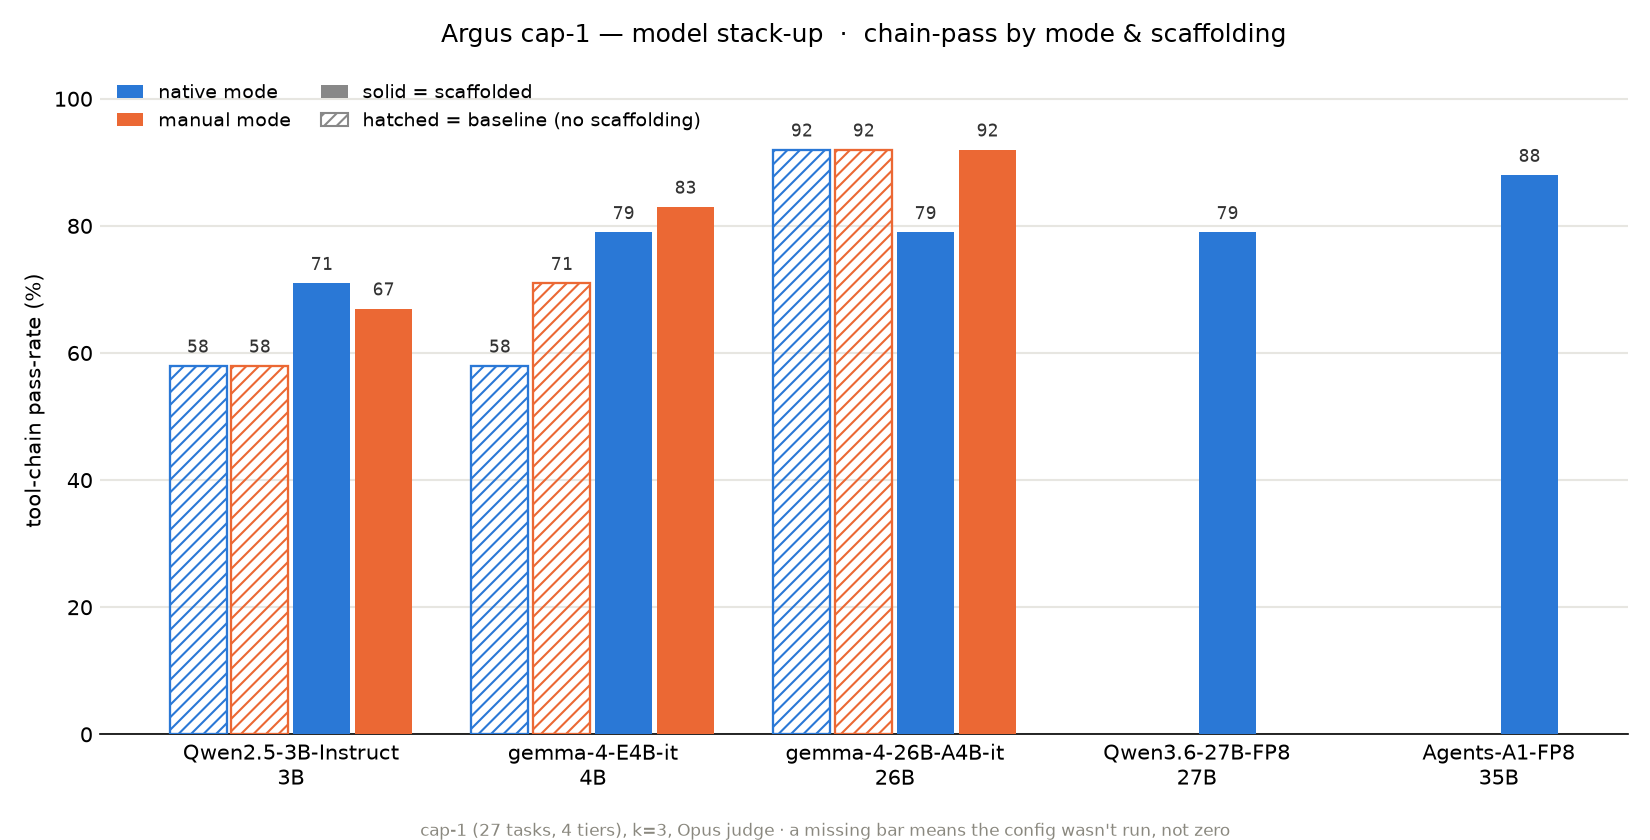
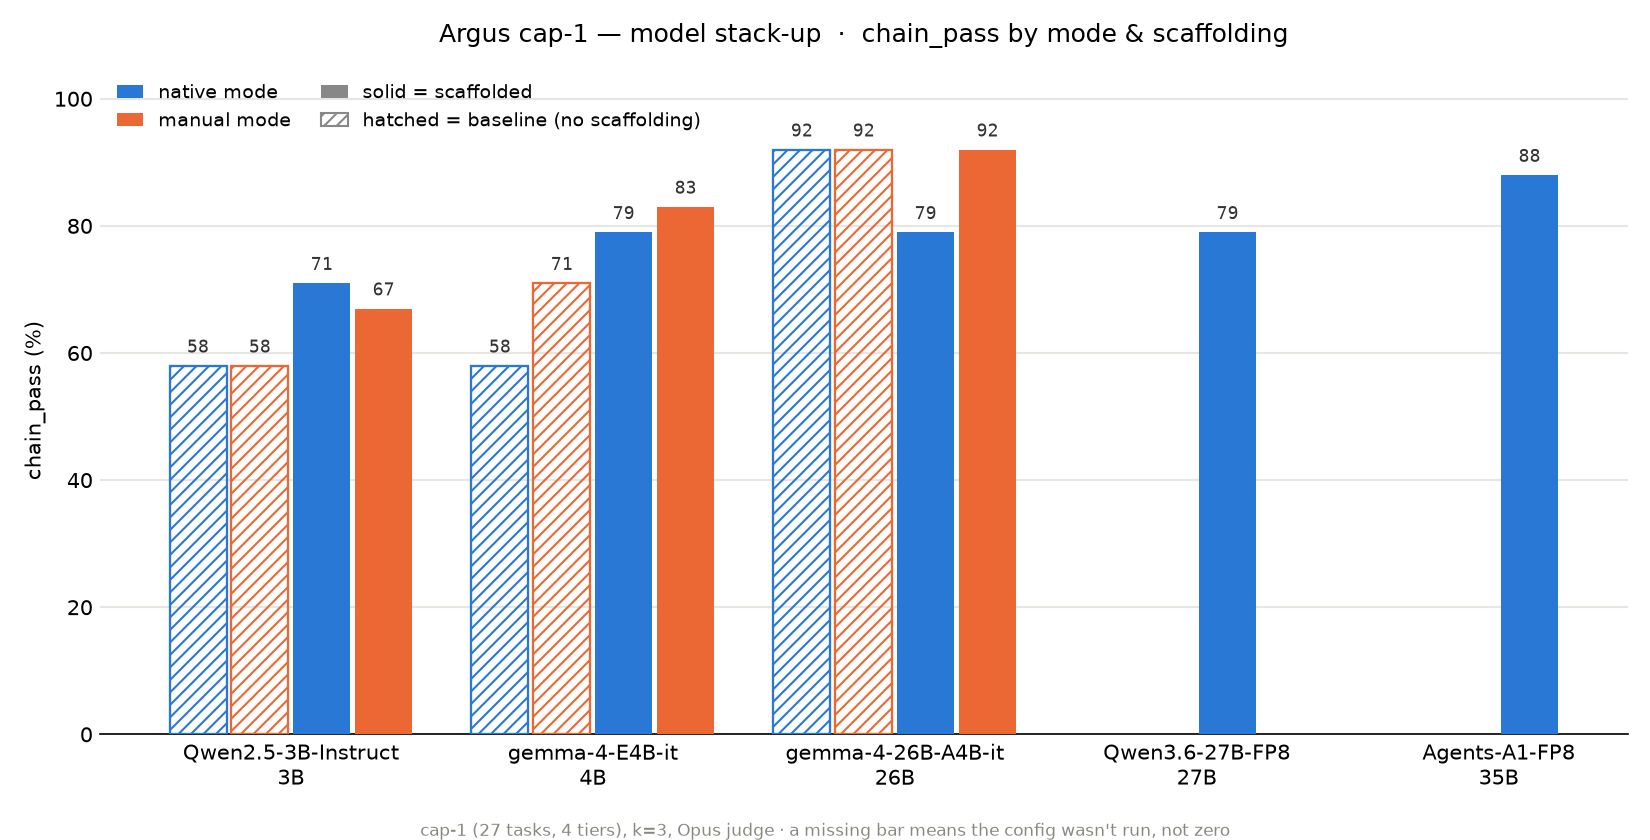
feat(benchmark): repo-native stackup + model_tiers charts with a solved option

diff --git a/benchmark/charts.py b/benchmark/charts.py
@@ -1,0 +1,172 @@
+"""Repo-native chart generators for the cap-1 model-capability benchmark: `stackup` (grouped-bar
+chain-pass by model x (mode x scaffold)) and `model_tiers` (per-model per-tier grouped bars).
+
+Both read committed results via engine.eval.benchmark._load_results() so the `solved` back-fill
+(Task 2) applies uniformly, and both accept `metric` so any per_tier/overall key (chain_pass,
+judge_mean, solved) can be plotted. Ported from ad-hoc scratch scripts; kept Agg-backed matplotlib.
+"""
+from __future__ import annotations
+
+import math
+
+import matplotlib
+matplotlib.use("Agg")
+import matplotlib.pyplot as plt
+from matplotlib.patches import Patch
+
+from engine.eval.benchmark import _load_results
+
+BV = "cap-1"
+NATIVE, MANUAL = "#2a78d6", "#eb6834"
+CONFIGS = [  # fixed render order within each model group: baseline first, then scaffolded
+    ("native", "off"), ("manual", "off"),
+    ("native", "on"), ("manual", "on"),
+]
+TIERS = [1, 2, 3, 4]
+
+
+def _sc(r):
+    return r.get("scaffold", "on")
+
+
+def _best_runs():
+    """representative run per (model, params, mode, scaffold): highest max_tokens, then latest date"""
+    res = [r for r in _load_results() if r.get("battery_version") == BV]
+    best = {}
+    for r in res:
+        key = (r["model"], r["params"], r.get("mode"), _sc(r))
+        rank = ((r.get("max_tokens") or 0), r.get("date", ""))
+        if key not in best or rank > best[key][0]:
+            best[key] = (rank, r)
+    return best
+
+
+def stackup(out, metric: str = "chain_pass") -> bool:
+    """Grouped-bar stack-up PNG: `metric` by model x (mode x scaffold). Style matches curve.png."""
+    best = _best_runs()
+    order = sorted({(p, m) for (m, p, _, _) in best})  # (params, model) sorted by params
+
+    def val(model, mode, scaf):
+        for (m, p, md, s), (_, r) in best.items():
+            if m == model and md == mode and s == scaf:
+                v = r.get("overall", {}).get(metric)
+                return None if v is None else round(v * 100)
+        return None
+
+    fig, ax = plt.subplots(figsize=(11, 5.6))
+    n_slots = len(CONFIGS)
+    group_w = 0.82
+    bw = group_w / n_slots
+
+    for gi, (params, model) in enumerate(order):
+        for ci, (mode, scaf) in enumerate(CONFIGS):
+            v = val(model, mode, scaf)
+            if v is None:
+                continue
+            x = gi + (ci - (n_slots - 1) / 2) * bw
+            color = NATIVE if mode == "native" else MANUAL
+            if scaf == "on":
+                ax.bar(x, v, bw * 0.92, color=color, edgecolor="none", zorder=3)
+            else:
+                ax.bar(x, v, bw * 0.92, facecolor="none", edgecolor=color,
+                       hatch="////", linewidth=1.1, zorder=3)
+            ax.text(x, v + 1.4, str(v), ha="center", va="bottom", fontsize=8.5,
+                    fontfamily="monospace", color="#333", zorder=4)
+
+    ax.set_xticks(range(len(order)))
+    ax.set_xticklabels([f"{model}\n{params}B" for params, model in order], fontsize=10)
+    ax.set_ylim(0, 105)
+    ax.set_ylabel(f"{metric} (%)")
+    ax.set_title(f"Argus cap-1 — model stack-up  ·  {metric} by mode & scaffolding", fontsize=12, pad=12)
+    ax.yaxis.grid(True, color="#e7e6e1", linewidth=1, zorder=0)
+    ax.set_axisbelow(True)
+    for s in ("top", "right", "left"):
+        ax.spines[s].set_visible(False)
+    ax.tick_params(length=0)
+
+    legend = [
+        Patch(facecolor=NATIVE, label="native mode"),
+        Patch(facecolor=MANUAL, label="manual mode"),
+        Patch(facecolor="#888", label="solid = scaffolded"),
+        Patch(facecolor="none", edgecolor="#888", hatch="////", label="hatched = baseline (no scaffolding)"),
+    ]
+    ax.legend(handles=legend, loc="upper left", frameon=False, fontsize=9, ncol=2,
+              handlelength=1.4, columnspacing=1.6)
+    fig.text(0.5, 0.005, "cap-1 (27 tasks, 4 tiers), k=3, Opus judge · a missing bar means the config wasn't run, not zero",
+              ha="center", fontsize=8, color="#8a887f")
+    fig.tight_layout(rect=(0, 0.03, 1, 1))
+    fig.savefig(out, dpi=150)
+    plt.close(fig)
+    print("wrote", out, "·", len(order), "models")
+    return True
+
+
+def model_tiers(out, metric: str = "chain_pass") -> bool:
+    """Per-model grouped-bar charts: one panel per model, x = tier, grouped bars = the four runs
+    (baseline/scaffold x native/manual)."""
+    best = _best_runs()
+    order = sorted({(p, m) for (m, p, _, _) in best})  # (params, model) by size
+
+    def tier_val(model, mode, scaf, tier):
+        for (m, p, md, s), (_, r) in best.items():
+            if m == model and md == mode and s == scaf:
+                v = r.get("per_tier", {}).get(str(tier), {}).get(metric)
+                return None if v is None else round(v * 100)
+        return None
+
+    n = len(order)
+    cols = min(3, n) or 1
+    rows = math.ceil(n / cols) if n else 1
+    fig, axes = plt.subplots(rows, cols, figsize=(4.7 * cols, 3.3 * rows), sharey=True, squeeze=False)
+    flat = [ax for row in axes for ax in row]
+
+    group_w = 0.8
+    bw = group_w / len(CONFIGS)
+    drawn = 0
+    for ax, (params, model) in zip(flat, order):
+        for ci, (mode, scaf) in enumerate(CONFIGS):
+            color = NATIVE if mode == "native" else MANUAL
+            for ti, t in enumerate(TIERS):
+                v = tier_val(model, mode, scaf, t)
+                if v is None:
+                    continue
+                x = ti + (ci - (len(CONFIGS) - 1) / 2) * bw
+                if scaf == "on":
+                    ax.bar(x, v, bw * 0.9, color=color, edgecolor="none", zorder=3)
+                else:
+                    ax.bar(x, v, bw * 0.9, facecolor="none", edgecolor=color, hatch="////",
+                           linewidth=1.0, zorder=3)
+                ax.text(x, v + 1.5, str(v), ha="center", va="bottom", fontsize=6.2,
+                        fontfamily="monospace", color="#555", zorder=4)
+                drawn += 1
+        ax.set_title(f"{model}  ·  {params}B", fontsize=10)
+        ax.set_xticks(range(len(TIERS)))
+        ax.set_xticklabels([f"T{t}" for t in TIERS], fontsize=9)
+        ax.set_ylim(0, 108)
+        ax.grid(True, axis="y", color="#e7e6e1", linewidth=0.9, zorder=0)
+        ax.set_axisbelow(True)
+        for sp_ in ("top", "right"):
+            ax.spines[sp_].set_visible(False)
+        ax.tick_params(length=0)
+
+    for ax in flat[n:]:
+        ax.set_visible(False)
+    for r_ in range(rows):
+        axes[r_][0].set_ylabel(f"{metric} (%)")
+
+    fig.suptitle(f"Argus cap-1 — per-tier {metric} by run, one panel per model", fontsize=13, y=0.99)
+    legend = [
+        Patch(facecolor=NATIVE, label="native mode"),
+        Patch(facecolor=MANUAL, label="manual mode"),
+        Patch(facecolor="#888", label="solid = scaffolded"),
+        Patch(facecolor="none", edgecolor="#888", hatch="////", label="hatched = baseline"),
+    ]
+    fig.legend(handles=legend, loc="lower center", ncol=4, frameon=False, fontsize=9.5,
+               bbox_to_anchor=(0.5, -0.01))
+    fig.text(0.5, 0.035, "bars within each tier: baseline-native, baseline-manual, scaffold-native, scaffold-manual · "
+              "a missing bar = that config wasn't run", ha="center", fontsize=8, color="#8a887f")
+    fig.tight_layout(rect=(0, 0.06, 1, 0.96))
+    fig.savefig(out, dpi=150, bbox_inches="tight")
+    plt.close(fig)
+    print("wrote", out, "·", n, "panels ·", drawn, "bars")
+    return True

diff --git a/engine/eval/benchmark.py b/engine/eval/benchmark.py
@@ -360,6 +360,13 @@ def main(argv=None):
     (BENCH / "report.md").write_text(md)
     curve_ok = render_curve(bv, BENCH / "curve.png")
     print(f"report: {BENCH / 'report.md'}" + (f"\ncurve: {BENCH / 'curve.png'}" if curve_ok else ""))
+    try:
+        from benchmark import charts
+        charts.stackup(str(BENCH / "stackup.png"))
+        charts.model_tiers(str(BENCH / "model_tiers.png"))
+        print(f"stackup: {BENCH / 'stackup.png'}\nmodel_tiers: {BENCH / 'model_tiers.png'}")
+    except ImportError:
+        print("note: matplotlib not available — skipped stackup/model_tiers charts")
     return 0
 
 